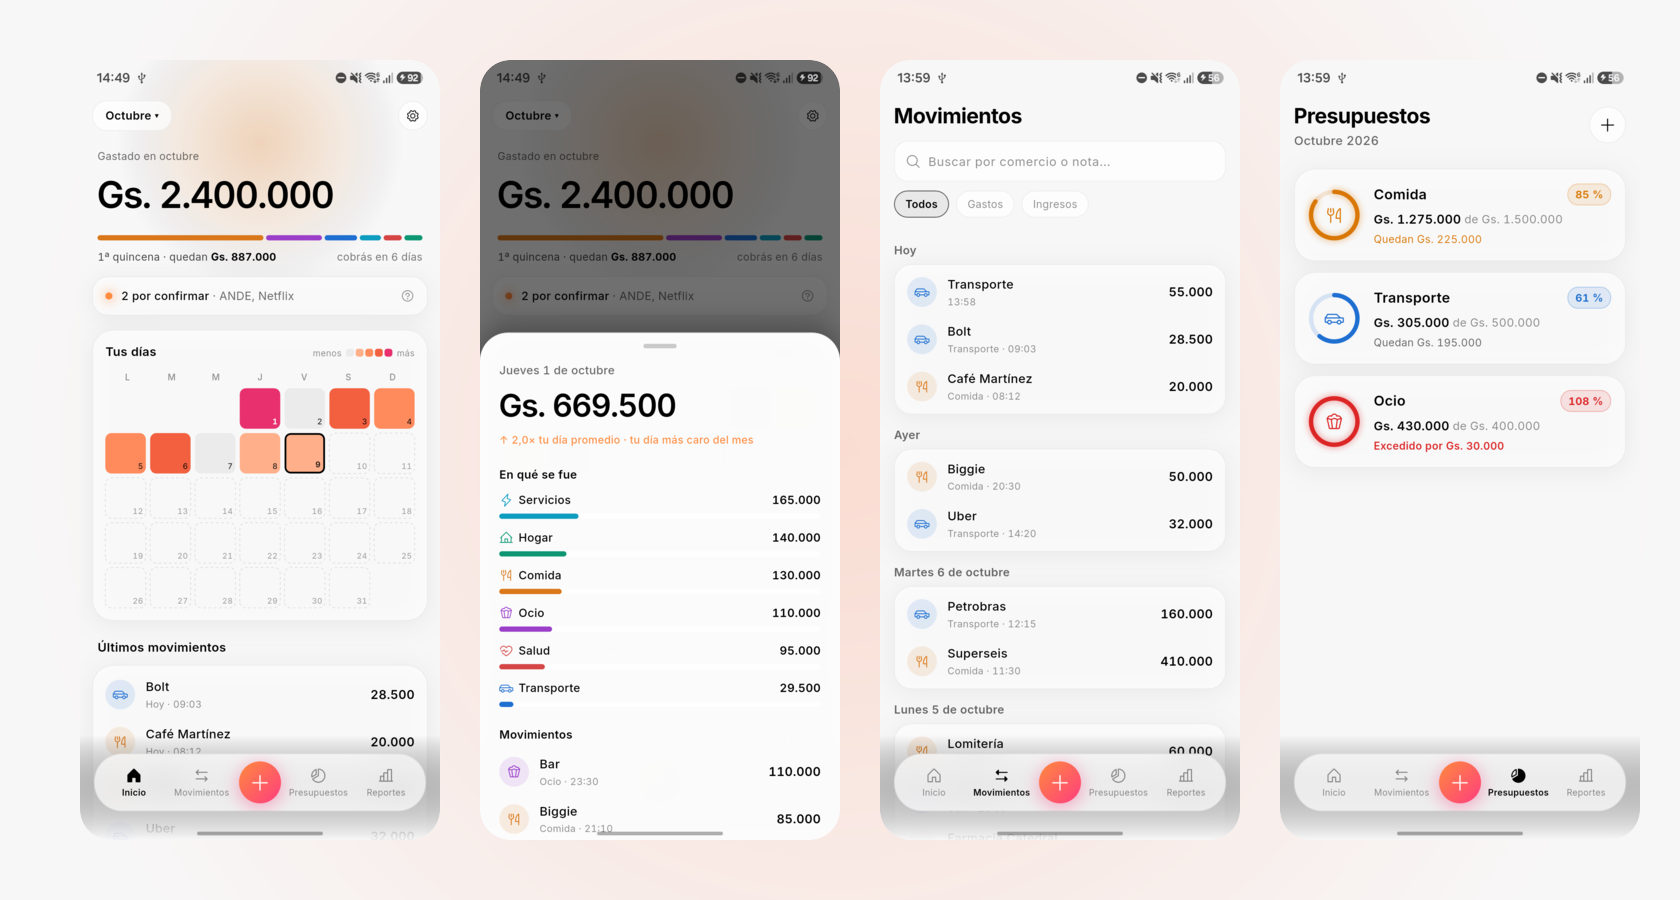
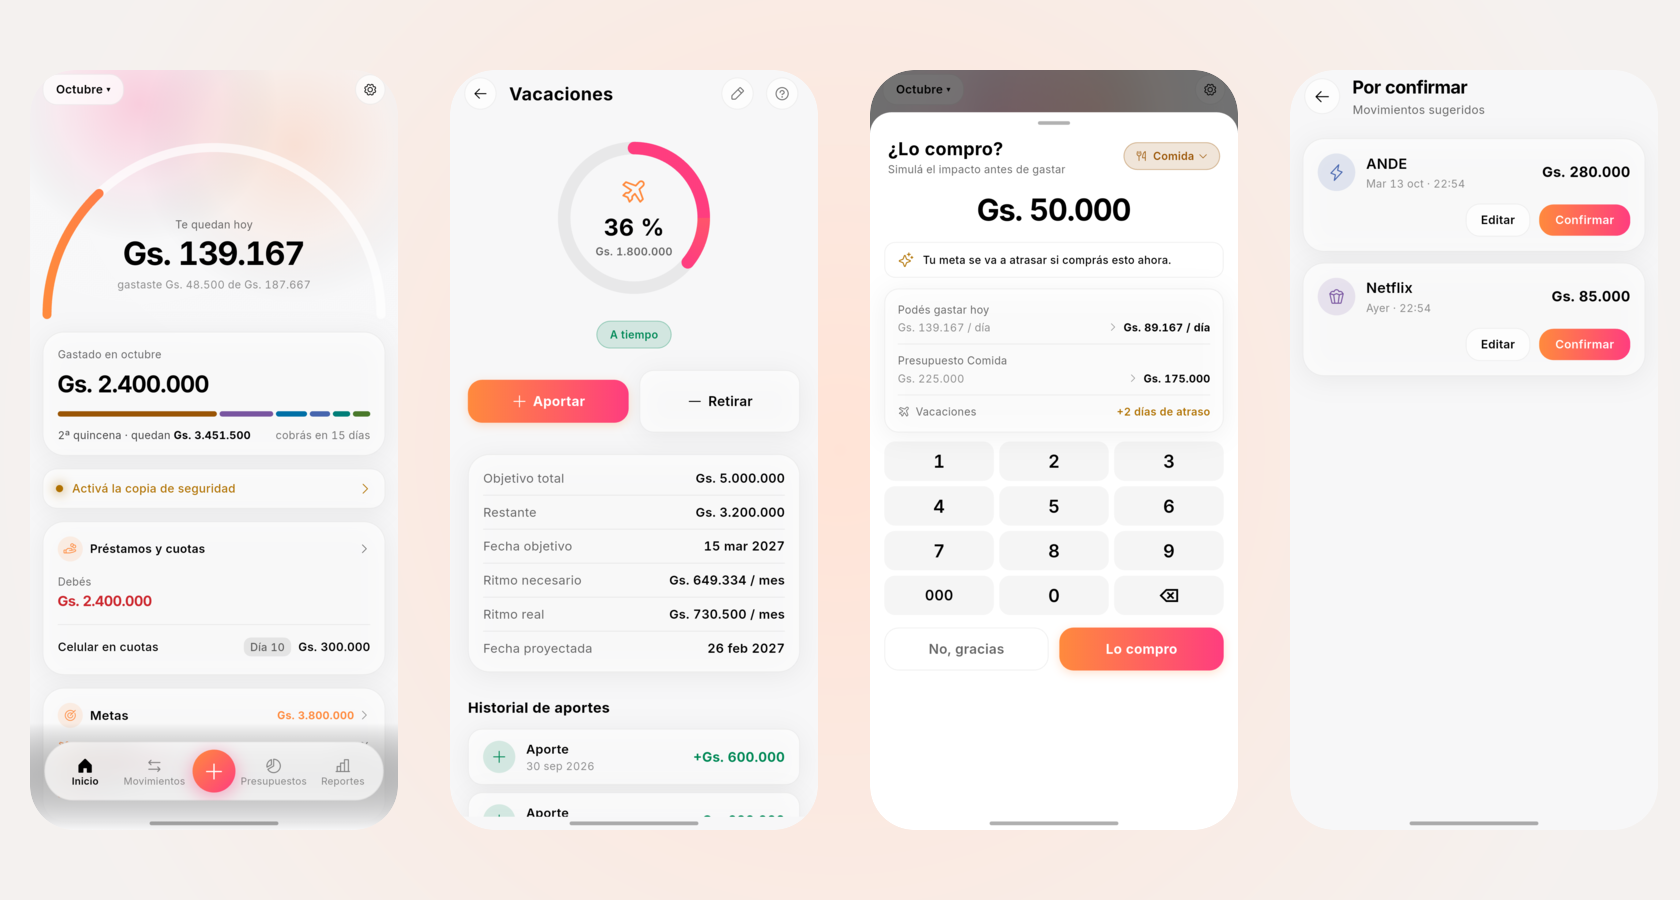
chore: capturas nuevas del README (arco de hoy, metas, ¿Lo compro?, reportes)

diff --git a/README.md b/README.md
@@ -28,10 +28,10 @@ Una app de finanzas personales para Android, **rápida para anotar y hermosa de 
 
 <picture>
   <source media="(prefers-color-scheme: light)" srcset="docs/brand/readme/gallery-light.png">
-  <img src="docs/brand/readme/gallery-dark.png" alt="Pantallas de Pockt: inicio con calendario de calor, detalle del día, presupuestos y bandeja de sugeridos" width="100%">
+  <img src="docs/brand/readme/gallery-dark.png" alt="Pantallas de Pockt: inicio con el arco de hoy, detalle de una meta, ¿Lo compro? y bandeja por confirmar" width="100%">
 </picture>
 
-<p align="center"><img src="docs/brand/readme/gallery-reports.png" alt="Reportes de Pockt: por categoría, evolución y por comercio" width="100%"></p>
+<p align="center"><img src="docs/brand/readme/gallery-reports.png" alt="Reportes de Pockt: por categoría, comparación con el mes anterior y gastos hormiga" width="100%"></p>
 
 ---
 
